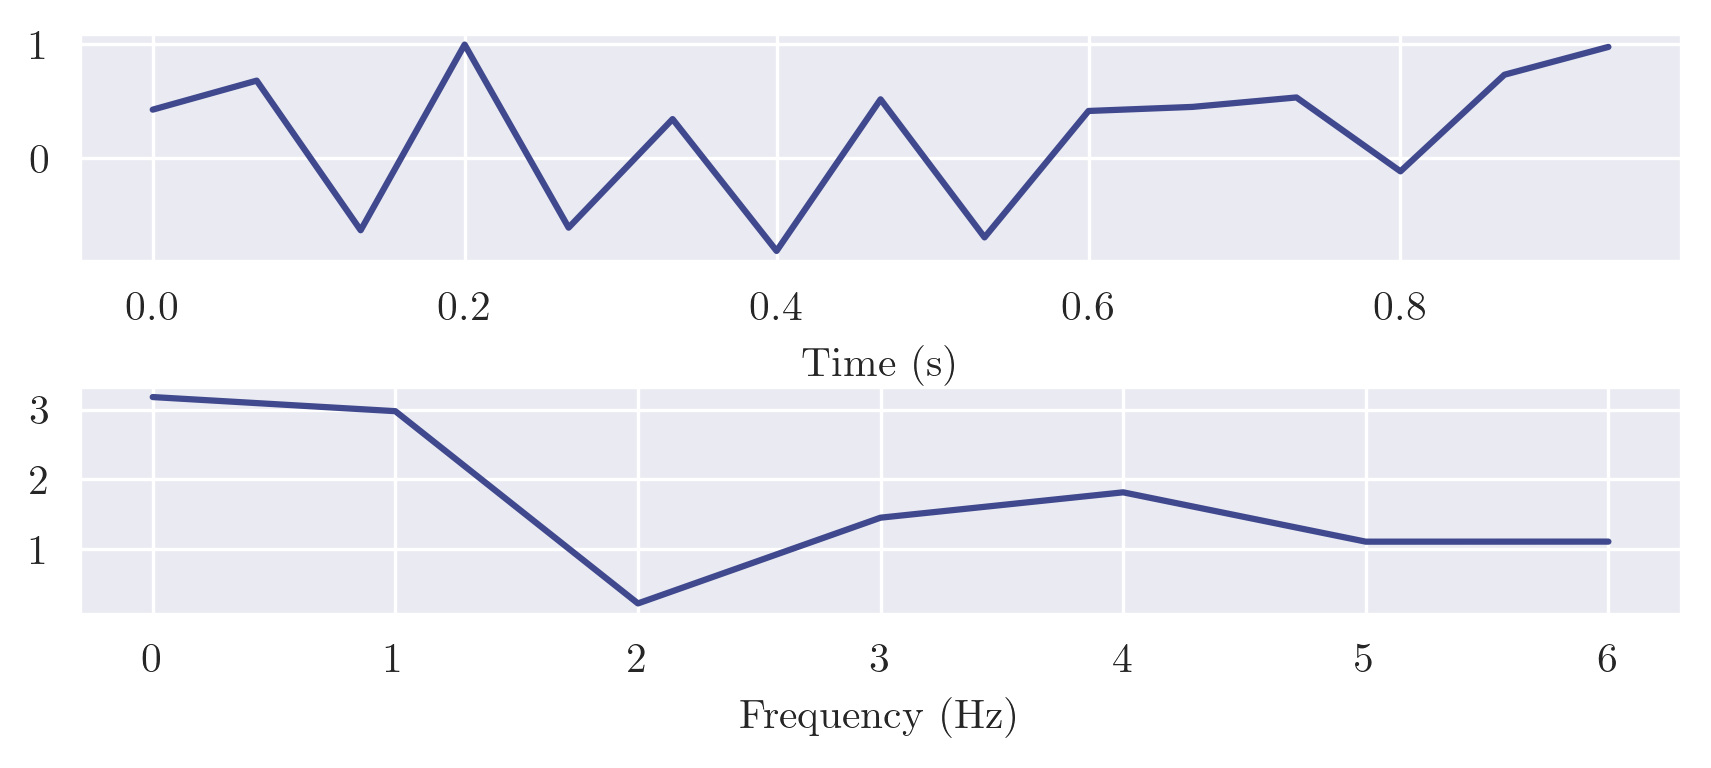
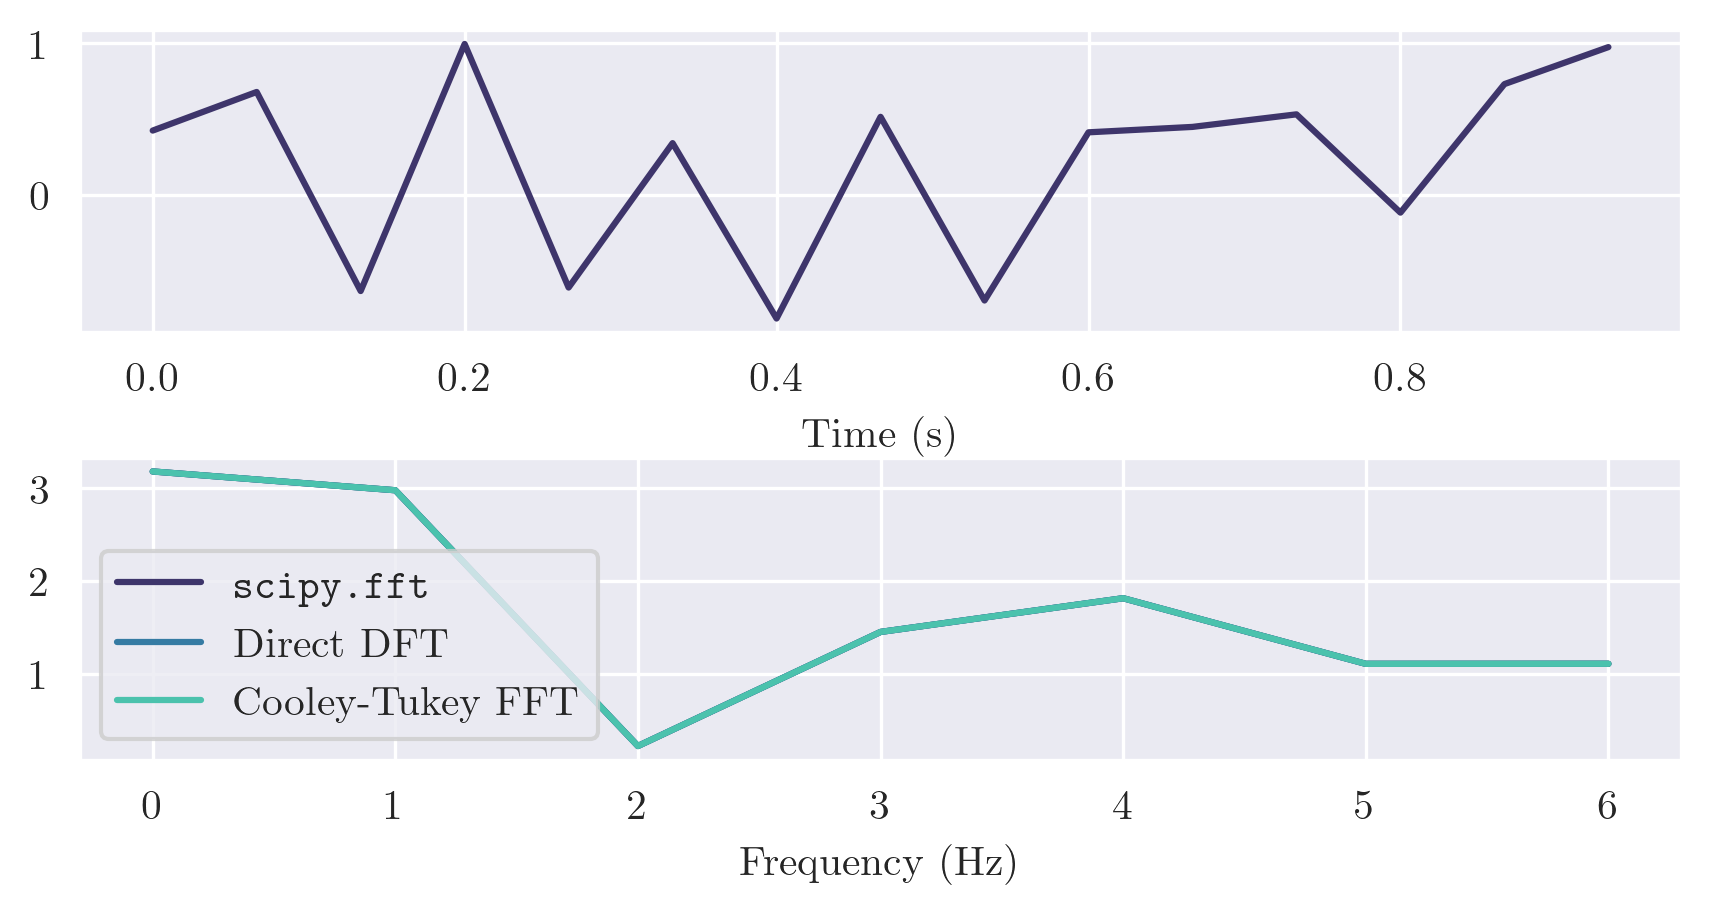
a3: quality improvement edits

diff --git a/a3/tex/sections/q6.tex b/a3/tex/sections/q6.tex
@@ -14,37 +14,27 @@ Each of the $N$ summations has $N$ terms, giving a tight bound on the time compl
     \label{fig:viz_cooley_tukey}
 \end{figure}
 
-The algorithm reshapes the input into an $N_1\times N_2$ row-major matrix, where $N_1N_2=N$. Subsequently, the DFT is applied to each column and row, with total time complexity in $\Theta(N_1N_2^2+N_2N_1^2)$. Twiddle factors are applied between the column and row DFTs to rectify phase errors introduced by packing the signal into an aligned matrix. This has complexity in $\Theta(N)$. Finally, the matrix is reshaped in column-major order back into a vector. The overall time complexity is in:
+In words, where $N_1N_2=N$, the algorithm:
+\begin{enumerate}
+    \item Reshapes the input into an $N_1\times N_2$ row-major matrix; time complexity in $\Theta(N)$.
+    \item Performs DFT on each column; in $\Theta(N_1N_2^2)$.
+    \item Applies twiddle factors to each element to rectify phase errors introduced by packing the signal into an aligned matrix; in $\Theta(N)$.
+    \item Performs DFT on each row; in $\Theta(N_2N_1^2)$.
+    \item Reshapes the matrix in column-major order back into a vector; in $\Theta(N)$.
+\end{enumerate}
+The overall time complexity is in:
 \begin{align}
-    \Theta(N_1N_2^2 + N_2N_1^2 + N) \subseteq \Theta(N_1N_2^2 + N_2N_1^2) = \Theta(N(N_1+N_2))
+    \Theta(N_1N_2^2) + \Theta(N_2N_1^2) + \Theta(N) \subset \Theta(N(N_1+N_2))
 \end{align}
-Given $N_1+N_2<N_1N_2=N$, we have $\Theta(N(N_1+N_2))\subset \Theta(N^2)$ and so we conclude that the Cooley-Tukey FFT is asymptotically faster than the DFT. We test this on the following 15-point signal; the Fourier transform is calculated by \texttt{scipy.fft} as a reference.
+Given $N_1+N_2<N_1N_2=N$, we have $\Theta(N(N_1+N_2))\subset \Theta(N^2)$ and so we conclude that the Cooley-Tukey FFT is asymptotically faster than the DFT. We test this on the 15-point signal of Figure \ref{fig:q6_signal}; the Fourier transform is also calculated using \texttt{scipy.fft} as a reference.
+
+\newpage
 
 \begin{figure}[ht]
     \centering
     \includegraphics[width=0.8\textwidth]{images/q6_signal.png}
     \caption{Time and frequency domain representation of a simple 15-point signal}
     \label{fig:q6_signal}
-\end{figure}
-
-\newpage
-
-The naive DFT produces the Fourier transform presented in Figure \ref{fig:q6_dft}.
-
-\begin{figure}[ht]
-    \centering
-    \includegraphics[width=0.8\textwidth]{images/q6_dft.png}
-    \caption{Fourier transform by naive DFT algorithm}
-    \label{fig:q6_dft}
-\end{figure}
-
-The Cooley-Tukey implementation produces the Fourier transform presented in Figure \ref{fig:q6_cooley_tukey}.
-
-\begin{figure}[ht]
-    \centering
-    \includegraphics[width=0.8\textwidth]{images/q6_cooley_tukey.png}
-    \caption{Fourier transform by Cooley-Tukey algorithm}
-    \label{fig:q6_cooley_tukey}
 \end{figure}
 
 Both implementations produce the correct result and have average timings shown in Table \ref{tab:q6_timings}.

diff --git a/a3/tex/sections/q7.tex b/a3/tex/sections/q7.tex
@@ -10,7 +10,17 @@ This problem compares the Good-Thomas FFT algorithm with the other algorithms im
     \label{fig:q7_viz_good_thomas}
 \end{figure}
 
-The algorithm reshapes the input into an $N_1\times N_2$ matrix, where $N_1N_2=N$, by populating elements along the extended diagonal. The DFT is then applied to each column and row, with total time complexity in $\Theta(N_1N_2^2 + N_2N_1^2)$. The construction of the matrix means twiddle factors are not required. To reshape the matrix into a signal, the $i$-th row and $j$-th column is placed into the $(N_1i+N_2j)$-th index in the output vector. The overall time complexity is in:
+In words, where $N_1N_2=N$, the algorithm:
+\begin{enumerate}
+    \item Constructs an $N_1\times N_2$ matrix along the extended diagonal; time complexity in $\Theta(N)$.
+    \item Performs DFT on each column and row; in $\Theta(N_1N_2^2 + N_2N_1^2)$.
+    \item Constructs the output signal using the following indexing, in $\Theta(N)$:
+    \begin{align*}
+        \text{out}[(N_1 i + N_2 j) \text{ mod } N] = \text{mat}[i,j]
+    \end{align*}
+    where $i$ and $j$ are matrix row and column indices, respectively.
+\end{enumerate}
+The construction means twiddle factors are not required. The overall time complexity is in:
 \begin{align}
     \Theta(N_1N_2^2 + N_2N_1^2)
 \end{align}
@@ -20,12 +30,14 @@ Figure \ref{fig:q7_good_thomas} shows the transformed result produced by the Goo
 
 \begin{figure}[ht]
     \centering
-    \includegraphics[width=0.8\textwidth]{images/q7_good_thomas.png}
+    \includegraphics[width=0.8\textwidth]{images/q7_transform.png}
     \caption{Fourier transform by Good-Thomas algorithm}
     \label{fig:q7_good_thomas}
 \end{figure}
 
 Table \ref{tab:q7_timings} compares the average timing of the algorithm compared to those from Question 6.
+
+\newpage
 
 \begin{table}[ht]
     \small \centering \restretch{1.2}
@@ -40,4 +52,4 @@ Table \ref{tab:q7_timings} compares the average timing of the algorithm compared
     \label{tab:q7_timings}
 \end{table}
 
-The Good-Thomas algorithm achieves around 10\% speedup over the Cooley-Tukey algorithm. Again, this is for a short signal; the difference should grow proportionally to signal length (because twiddle factor computation grows linearly with length), which is why this algorithm is generally preferred over the Cooley-Tukey algorithm.
+The Good-Thomas algorithm achieves around 10\% speedup over the Cooley-Tukey algorithm. Again, this is for a short signal; the difference should grow proportionally to signal length (since the number of twiddle factors is proportional to length), which is why the Good-Thomas algorithm is generally preferred over the Cooley-Tukey algorithm.

diff --git a/a3/tex/sections/q4.tex b/a3/tex/sections/q4.tex
@@ -1,7 +1,7 @@
 \section*{Question 4}
 \fakesection{4}
 
-For this problem, we use the Euclidean algorithm to find the GCD of 313451351 and 513454536.
+We use the Euclidean algorithm to find the GCD of 313451351 and 513454536.
 
 \begin{enumerate}
     \item GCD(513454536, 313451351) $\longrightarrow 513454536 = 313451351 \times 1 + 200003185$
@@ -24,11 +24,11 @@ For this problem, we use the Euclidean algorithm to find the GCD of 313451351 an
     \item GCD(10, 1) $\longrightarrow 10 = 1 \times 10 + 0$
 \end{enumerate}
 
-Hence, the GCD is 1. By definition, then, 313451351 and 513454536 must be relatively prime.
+The GCD is 1, so 313451351 and 513454536 are relatively prime.
 
-Finally, we want to go in the reverse direction and find two numbers with at least 10 digits each that have a GCD of 71. Denote these $a$ and $b$. We can pick two different prime numbers and repeatedly multiply $a$ by the first and $b$ by the second until both have at least 10 digits. E.g.
+We can also go in reverse and find two numbers, $a$ and $b$, with at least 10 digits each and a GCD of 71. We repeatedly multiply 71 by two distinct primes until reaching 10 digits:
 \begin{align*}
     a = 71 \times 17^{6} = 1713767399 \\
     b = 71 \times 19^{6} = 3340257551
 \end{align*}
-By the notion of prime factorisation, it is trivial to see that these numbers have a GCD of 71.
+By prime factorisation (71 is prime), GCD($a$, $b$) $= 71$.

diff --git a/a3/tex/sections/q5.tex b/a3/tex/sections/q5.tex
@@ -1,15 +1,15 @@
 \section*{Question 5}
 \fakesection{5}
 
-The Chinese remainder theorem is applicable for any set of divisors that are pairwise coprime, which is true of the set \{5, 6, 7, 11\}. Hence, denoting the number of soldiers $n$, we have:
+The Chinese remainder theorem can be applied to any set of pairwise coprime divisors, which is true of \{5, 6, 7, 11\}. Denoting the number of soldiers $n$:
 \begin{align*}
     n \text{ mod } 5 = 3 && n \text{ mod } 6 = 3 && n \text{ mod } 7 = 1 && n \text{ mod } 11 = 0
 \end{align*}
-We can therefore enumerate the values satisfying each condition until finding a common value between all sets, which we are told must be less than or equal to 1200.
+We can enumerate all values satisfying each of the above until finding a common value, which must be less than or equal to 1200.
 \begin{align*}
     5k + 3  &= \{3, 8, \dots, 1018, 1023\} \\
     6k + 3  &= \{3, 9, \dots, 1017, 1023\} \\
     7k + 1  &= \{1, 8, \dots, 1016, 1023\} \\
     11k + 0 &= \{0, 11, \dots, 1012, 1023\}
 \end{align*}
-Hence, the number of soldiers after the battle must be $n=1012$.
+Hence, the number of soldiers after the battle must be $n=1023$.

diff --git a/a3/tex/sections/q3.tex b/a3/tex/sections/q3.tex
@@ -1,9 +1,9 @@
 \section*{Question 3}
 \fakesection{3}
 
-This problem repeats the polyphase interpolator of Question 2, but adds the additional task of frequency shifting the interpolated signal by heterodyning with a 10 kHz carrier. This is easily achieved with a signal extra step. After zero-padding and reshaping the filter coefficients into a matrix of $L$ rows, where $L$ is the upsampling factor, we multiply each row by
+This problem repeats the polyphase interpolator of Question 2, but adds the additional task of frequency shifting the interpolated signal by heterodyning with a 10 kHz carrier. This is easily achieved with a single extra step. After zero-padding and reshaping the filter coefficients into a matrix of $L$ rows, where $L$ is the upsampling factor, we multiply each row by
 \begin{align}
-    c(n) = \cos(2\pi nk/M),\ n = 0..L-1
+    c(n) = \cos(2\pi nk/L),\ n = 0 \dots L-1
 \end{align}
 where $n$ is the row index and $k$ is a constant which determines the shift:
 \begin{align}
